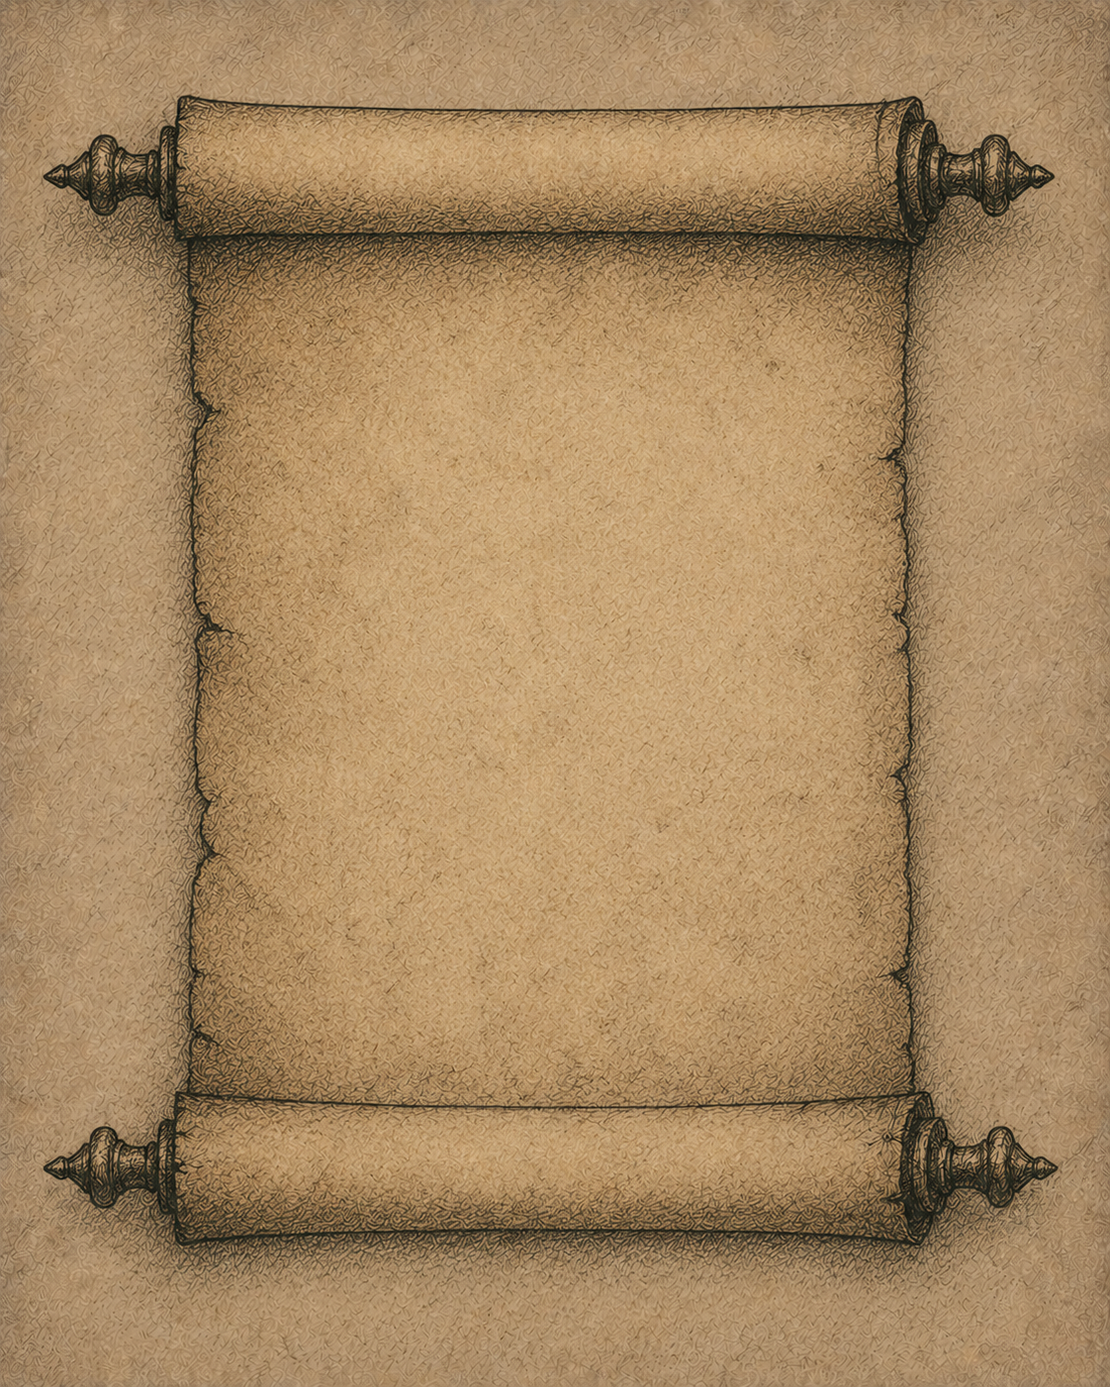
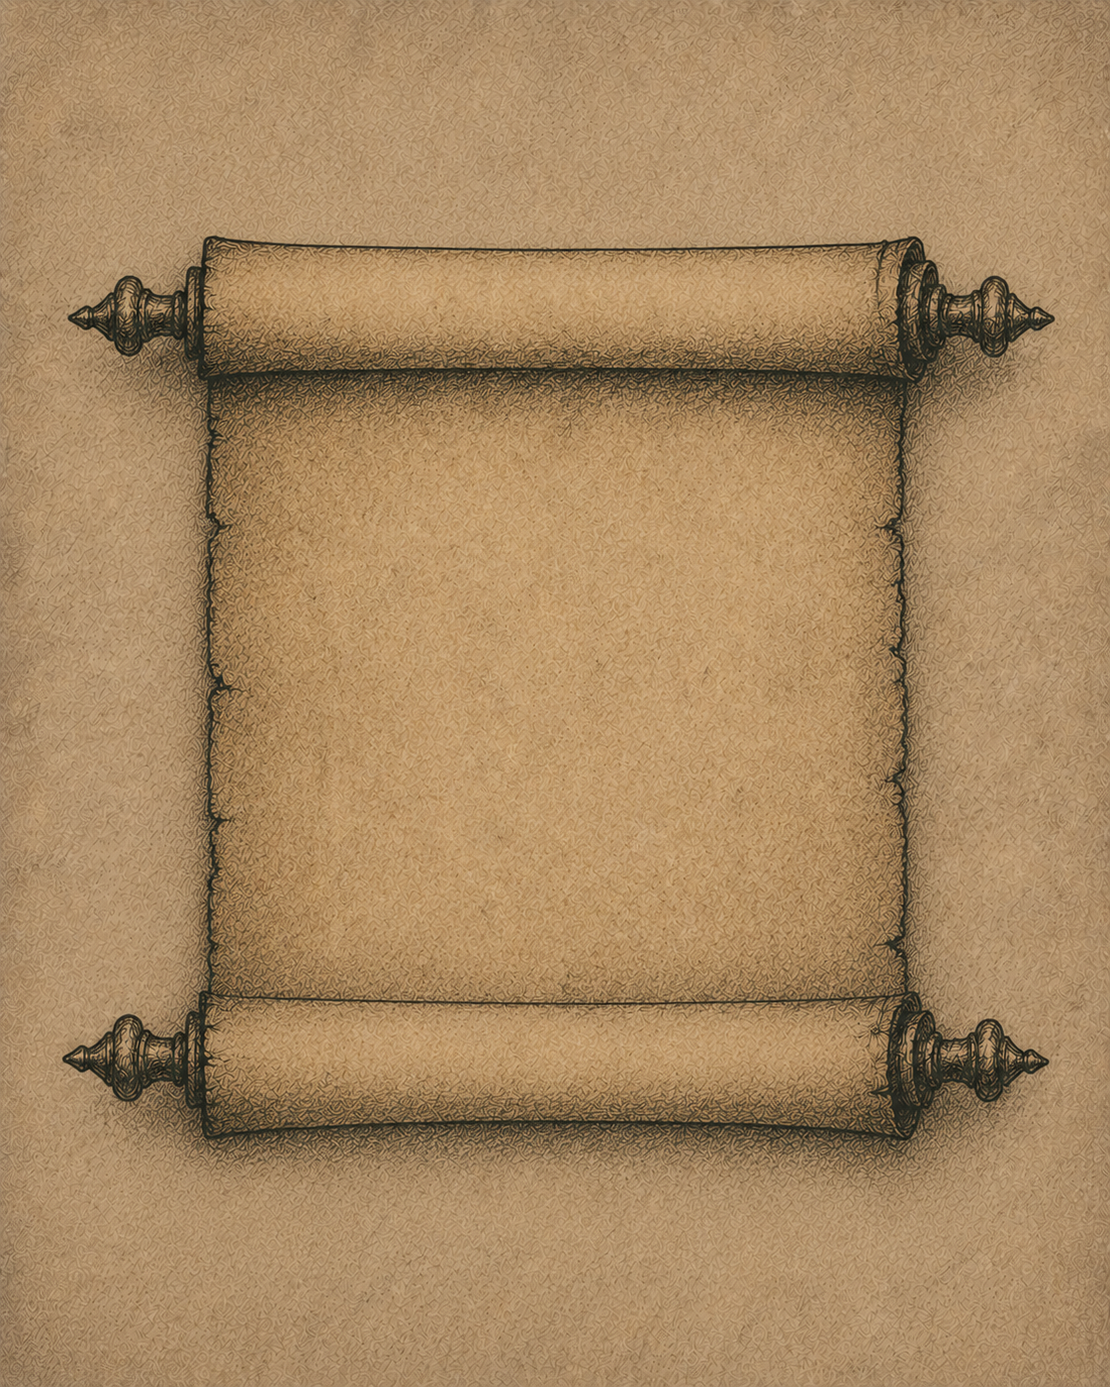
update: mobile svg assignments and announcements

diff --git a/assets/js/learner/assignments.js b/assets/js/learner/assignments.js
@@ -196,7 +196,7 @@ function renderAssignmentCards(groupedData) {
                 <div class="las-sidebar-item" id="las-sidebar-${flatIdx}"
                     onclick="selectDesktopLearnerAssignment(${flatIdx})">
                     <div class="las-sidebar-item-icon">
-                        <svg viewBox="0 0 24 24" width="16" height="16" stroke="#a78bfa" stroke-width="2" fill="none">
+                        <svg viewBox="0 0 24 24" width="16" height="16" stroke="#a78bfa" stroke-width="2" fill="none" stroke-linecap="round" stroke-linejoin="round" style="shape-rendering:geometricPrecision">
                             <path d="M14 2H6a2 2 0 0 0-2 2v16a2 2 0 0 0 2 2h12a2 2 0 0 0 2-2V8z"></path>
                             <polyline points="14 2 14 8 20 8"></polyline>
                         </svg>
@@ -526,7 +526,7 @@ function renderAssignmentCards(groupedData) {
             </div>
             <div class="las-main-panel" id="las-main-panel">
                 <div class="las-panel-empty">
-                    <svg viewBox="0 0 24 24" width="48" height="48" stroke="#a78bfa" stroke-width="1.5" fill="none">
+                    <svg viewBox="0 0 24 24" width="48" height="48" stroke="#a78bfa" stroke-width="1.5" fill="none" stroke-linecap="round" stroke-linejoin="round" style="shape-rendering:geometricPrecision">
                         <path d="M14 2H6a2 2 0 0 0-2 2v16a2 2 0 0 0 2 2h12a2 2 0 0 0 2-2V8z"></path>
                         <polyline points="14 2 14 8 20 8"></polyline>
                         <line x1="16" y1="13" x2="8" y2="13"></line>
@@ -542,7 +542,7 @@ function renderAssignmentCards(groupedData) {
     if (Object.keys(groupedData).length > 0) {
         html += `
         <div class="las-mobile-search-wrap">
-            <svg viewBox="0 0 24 24" width="15" height="15" stroke="currentColor" stroke-width="2" fill="none">
+            <svg viewBox="0 0 24 24" width="15" height="15" stroke="currentColor" stroke-width="2" fill="none" stroke-linecap="round" stroke-linejoin="round" style="shape-rendering:geometricPrecision">
                 <circle cx="11" cy="11" r="8"/><line x1="21" y1="21" x2="16.65" y2="16.65"/>
             </svg>
             <input type="text" class="las-mobile-search" id="lasMobileSearch"
@@ -566,7 +566,7 @@ function renderAssignmentCards(groupedData) {
                 </div>
                 <span class="las-mobile-folder-name">${escapeLearnerAssignmentHtml(teacher)}</span>
                 <span class="las-mobile-folder-count">${tasks.length} assignment${tasks.length !== 1 ? 's' : ''}</span>
-                <svg class="las-mobile-folder-chevron" viewBox="0 0 24 24" width="14" height="14" stroke="currentColor" stroke-width="2.5" fill="none">
+                <svg class="las-mobile-folder-chevron" viewBox="0 0 24 24" width="14" height="14" stroke="currentColor" stroke-width="2" fill="none" stroke-linecap="round" stroke-linejoin="round" style="shape-rendering:geometricPrecision">
                     <polyline points="9 18 15 12 9 6"/>
                 </svg>
             </div>
@@ -584,7 +584,7 @@ function renderAssignmentCards(groupedData) {
                     onkeydown="if(event.key === 'Enter' || event.key === ' ') { event.preventDefault(); openMobileLearnerAssignment(${mobileFlatIdx}); }"
                     style="${task.is_past_due ? 'opacity:0.65;' : ''}">
                     <div class="las-mobile-row-icon">
-                        <svg viewBox="0 0 24 24" width="20" height="20" stroke="#a78bfa" stroke-width="2" fill="none">
+                        <svg viewBox="0 0 24 24" width="20" height="20" stroke="#a78bfa" stroke-width="2" fill="none" stroke-linecap="round" stroke-linejoin="round" style="shape-rendering:geometricPrecision">
                             <path d="M14 2H6a2 2 0 0 0-2 2v16a2 2 0 0 0 2 2h12a2 2 0 0 0 2-2V8z"></path>
                             <polyline points="14 2 14 8 20 8"></polyline>
                         </svg>
@@ -598,7 +598,7 @@ function renderAssignmentCards(groupedData) {
                         </div>
                     </div>
                     <div class="las-mobile-row-chevron">
-                        <svg viewBox="0 0 24 24" width="16" height="16" stroke="currentColor" stroke-width="2" fill="none">
+                        <svg viewBox="0 0 24 24" width="16" height="16" stroke="currentColor" stroke-width="2" fill="none" stroke-linecap="round" stroke-linejoin="round" style="shape-rendering:geometricPrecision">
                             <polyline points="9 18 15 12 9 6"></polyline>
                         </svg>
                     </div>
@@ -792,13 +792,13 @@ window.openMobileLearnerAssignment = function(flatIdx) {
                 ${task.teacher_file ? `
                     <a class="las-mobile-detail-link" href="javascript:void(0)"
                        onclick="viewDocument('${escapeLearnerAssignmentJsString(task.teacher_file)}', 'Teacher Attachment: ${escapeLearnerAssignmentJsString(task.title)}')">
-                        <svg viewBox="0 0 24 24" width="15" height="15" stroke="currentColor" stroke-width="2" fill="none"><path d="M21.44 11.05l-9.19 9.19a6 6 0 0 1-8.49-8.49l9.19-9.19a4 4 0 0 1 5.66 5.66l-9.2 9.19a2 2 0 0 1-2.83-2.83l8.49-8.48"></path></svg>
+                        <svg viewBox="0 0 24 24" width="15" height="15" stroke="currentColor" stroke-width="2" fill="none" stroke-linecap="round" stroke-linejoin="round" style="shape-rendering:geometricPrecision"><path d="M21.44 11.05l-9.19 9.19a6 6 0 0 1-8.49-8.49l9.19-9.19a4 4 0 0 1 5.66 5.66l-9.2 9.19a2 2 0 0 1-2.83-2.83l8.49-8.48"></path></svg>
                         Teacher Attachment
                     </a>` : ''}
                 ${task.submission_file ? `
                     <a class="las-mobile-detail-link" href="javascript:void(0)"
                        onclick="viewDocument('${escapeLearnerAssignmentJsString(task.submission_file)}', 'My Submission: ${escapeLearnerAssignmentJsString(task.title)}')">
-                        <svg viewBox="0 0 24 24" width="15" height="15" stroke="currentColor" stroke-width="2" fill="none"><path d="M1 12s4-8 11-8 11 8 11 8-4 8-11 8-11-8-11-8z"></path><circle cx="12" cy="12" r="3"></circle></svg>
+                        <svg viewBox="0 0 24 24" width="15" height="15" stroke="currentColor" stroke-width="2" fill="none" stroke-linecap="round" stroke-linejoin="round" style="shape-rendering:geometricPrecision"><path d="M1 12s4-8 11-8 11 8 11 8-4 8-11 8-11-8-11-8z"></path><circle cx="12" cy="12" r="3"></circle></svg>
                         View My Work
                     </a>` : ''}
             </div>
@@ -838,10 +838,10 @@ window.selectDesktopLearnerAssignment = function(flatIdx) {
     const isDone = !!task.submission_file;
     const statusColor = task.is_past_due ? '#f85149' : (isDone ? '#a78bfa' : '#888');
     const statusSVG = task.is_past_due
-        ? `<svg viewBox="0 0 24 24" width="20" height="20" stroke="${statusColor}" stroke-width="2" fill="none" style="vertical-align:middle;"><rect x="3" y="11" width="18" height="11" rx="2" ry="2"></rect><path d="M7 11V7a5 5 0 0 1 10 0v4"></path></svg>`
+        ? `<svg viewBox="0 0 24 24" width="20" height="20" stroke="${statusColor}" stroke-width="2" fill="none" stroke-linecap="round" stroke-linejoin="round" style="vertical-align:middle; shape-rendering:geometricPrecision"><rect x="3" y="11" width="18" height="11" rx="2" ry="2"></rect><path d="M7 11V7a5 5 0 0 1 10 0v4"></path></svg>`
         : (isDone
-            ? `<svg viewBox="0 0 24 24" width="20" height="20" stroke="${statusColor}" stroke-width="2.5" fill="none" style="vertical-align:middle;"><path d="M22 11.08V12a10 10 0 1 1-5.93-9.14"></path><polyline points="22 4 12 14.01 9 11.01"></polyline></svg>`
-            : `<svg viewBox="0 0 24 24" width="20" height="20" stroke="${statusColor}" stroke-width="2" fill="none" style="vertical-align:middle;"><path d="M14 2H6a2 2 0 0 0-2 2v16a2 2 0 0 0 2 2h12a2 2 0 0 0 2-2V8z"></path><polyline points="14 2 14 8 20 8"></polyline></svg>`);
+            ? `<svg viewBox="0 0 24 24" width="20" height="20" stroke="${statusColor}" stroke-width="2.5" fill="none" stroke-linecap="round" stroke-linejoin="round" style="vertical-align:middle; shape-rendering:geometricPrecision"><path d="M22 11.08V12a10 10 0 1 1-5.93-9.14"></path><polyline points="22 4 12 14.01 9 11.01"></polyline></svg>`
+            : `<svg viewBox="0 0 24 24" width="20" height="20" stroke="${statusColor}" stroke-width="2" fill="none" stroke-linecap="round" stroke-linejoin="round" style="vertical-align:middle; shape-rendering:geometricPrecision"><path d="M14 2H6a2 2 0 0 0-2 2v16a2 2 0 0 0 2 2h12a2 2 0 0 0 2-2V8z"></path><polyline points="14 2 14 8 20 8"></polyline></svg>`);
 
     const submitAction = task.is_past_due
         ? `<span style="color:#8b949e; font-weight:700; font-size:14px;">Locked</span>`
@@ -860,10 +860,10 @@ window.selectDesktopLearnerAssignment = function(flatIdx) {
                 <div class="las-panel-meta">
                     <span>${task.teacher}</span>
                     <span>&bull;</span>
-                    <svg viewBox="0 0 24 24" width="13" height="13" stroke="currentColor" stroke-width="2" fill="none" style="vertical-align:middle;"><path d="M2 3h20v14H2z"></path><path d="M8 21h8"></path><path d="M12 17v4"></path></svg>
+                    <svg viewBox="0 0 24 24" width="13" height="13" stroke="currentColor" stroke-width="2" fill="none" stroke-linecap="round" stroke-linejoin="round" style="vertical-align:middle; shape-rendering:geometricPrecision"><path d="M2 3h20v14H2z"></path><path d="M8 21h8"></path><path d="M12 17v4"></path></svg>
                     <span>${task.class_name}</span>
                     <span>&bull;</span>
-                    <svg viewBox="0 0 24 24" width="13" height="13" stroke="currentColor" stroke-width="2" fill="none" style="vertical-align:middle;"><circle cx="12" cy="12" r="10"></circle><polyline points="12 6 12 12 16 14"></polyline></svg>
+                    <svg viewBox="0 0 24 24" width="13" height="13" stroke="currentColor" stroke-width="2" fill="none" stroke-linecap="round" stroke-linejoin="round" style="vertical-align:middle; shape-rendering:geometricPrecision"><circle cx="12" cy="12" r="10"></circle><polyline points="12 6 12 12 16 14"></polyline></svg>
                     <span>Due: ${task.due_date}</span>
                 </div>
             </div>
@@ -877,14 +877,14 @@ window.selectDesktopLearnerAssignment = function(flatIdx) {
                     <a href="javascript:void(0)"
                         onclick="viewDocument('${task.teacher_file}', 'Teacher Attachment: ${task.title.replace(/'/g, "\\'")}')"
                         style="color:#a78bfa;font-size:13px;text-decoration:none;display:flex;align-items:center;gap:6px;">
-                        <svg viewBox="0 0 24 24" width="14" height="14" stroke="#a78bfa" stroke-width="2" fill="none"><path d="M21.44 11.05l-9.19 9.19a6 6 0 0 1-8.49-8.49l9.19-9.19a4 4 0 0 1 5.66 5.66l-9.2 9.19a2 2 0 0 1-2.83-2.83l8.49-8.48"></path></svg>
+                        <svg viewBox="0 0 24 24" width="14" height="14" stroke="#a78bfa" stroke-width="2" fill="none" stroke-linecap="round" stroke-linejoin="round" style="shape-rendering:geometricPrecision"><path d="M21.44 11.05l-9.19 9.19a6 6 0 0 1-8.49-8.49l9.19-9.19a4 4 0 0 1 5.66 5.66l-9.2 9.19a2 2 0 0 1-2.83-2.83l8.49-8.48"></path></svg>
                         Teacher Attachment
                     </a>` : ''}
                 ${task.submission_file ? `
                     <a href="javascript:void(0)"
                         onclick="viewDocument('${task.submission_file}', 'My Submission: ${task.title.replace(/'/g, "\\'")}')"
                         style="color:#a78bfa;font-size:13px;text-decoration:none;display:flex;align-items:center;gap:6px;">
-                        <svg viewBox="0 0 24 24" width="14" height="14" stroke="#a78bfa" stroke-width="2" fill="none"><path d="M1 12s4-8 11-8 11 8 11 8-4 8-11 8-11-8-11-8z"></path><circle cx="12" cy="12" r="3"></circle></svg>
+                        <svg viewBox="0 0 24 24" width="14" height="14" stroke="#a78bfa" stroke-width="2" fill="none" stroke-linecap="round" stroke-linejoin="round" style="shape-rendering:geometricPrecision"><path d="M1 12s4-8 11-8 11 8 11 8-4 8-11 8-11-8-11-8z"></path><circle cx="12" cy="12" r="3"></circle></svg>
                         View My Work
                     </a>` : ''}
             </div>

diff --git a/assets/js/learner/announcements.js b/assets/js/learner/announcements.js
@@ -170,7 +170,7 @@ function renderAnnouncements(data) {
     if (hasSchoolWide) {
         sidebarHtml += `
             <div class="lan-sidebar-section-label lan-section-school">
-                <svg viewBox="0 0 24 24" width="10" height="10" stroke="#d29522" stroke-width="2.5" fill="none" style="flex-shrink:0;">
+                <svg viewBox="0 0 24 24" width="12" height="12" stroke="#d29522" stroke-width="2" fill="none" stroke-linecap="round" stroke-linejoin="round" style="flex-shrink:0; shape-rendering:geometricPrecision">
                     <path d="M3 9l9-7 9 7v11a2 2 0 0 1-2 2H5a2 2 0 0 1-2-2z"/>
                     <polyline points="9 22 9 12 15 12 15 22"/>
                 </svg>
@@ -183,7 +183,7 @@ function renderAnnouncements(data) {
                 <div class="lan-sidebar-item lan-sidebar-item--school" id="lan-sidebar-${flatIdx}"
                     onclick="selectDesktopLearnerAnnouncement(${flatIdx})">
                     <div class="lan-sidebar-item-icon">
-                        <svg viewBox="0 0 24 24" width="16" height="16" stroke="#d29522" stroke-width="2" fill="none">
+                        <svg viewBox="0 0 24 24" width="16" height="16" stroke="#d29522" stroke-width="2" fill="none" stroke-linecap="round" stroke-linejoin="round" style="shape-rendering:geometricPrecision">
                             <path d="M3 9l9-7 9 7v11a2 2 0 0 1-2 2H5a2 2 0 0 1-2-2z"/>
                             <polyline points="9 22 9 12 15 12 15 22"/>
                         </svg>
@@ -202,7 +202,7 @@ function renderAnnouncements(data) {
     if (hasTeacher) {
         sidebarHtml += `
             <div class="lan-sidebar-section-label lan-section-teacher" style="margin-top:${hasSchoolWide ? '8px' : '0'}">
-                <svg viewBox="0 0 24 24" width="10" height="10" stroke="#4fd1c5" stroke-width="2.5" fill="none" style="flex-shrink:0;">
+                <svg viewBox="0 0 24 24" width="12" height="12" stroke="#4fd1c5" stroke-width="2" fill="none" stroke-linecap="round" stroke-linejoin="round" style="flex-shrink:0; shape-rendering:geometricPrecision">
                     <rect x="2" y="3" width="20" height="14" rx="2" ry="2"/>
                     <line x1="8" y1="21" x2="16" y2="21"/><line x1="12" y1="17" x2="12" y2="21"/>
                 </svg>
@@ -217,7 +217,7 @@ function renderAnnouncements(data) {
                     <div class="lan-sidebar-item" id="lan-sidebar-${flatIdx}"
                         onclick="selectDesktopLearnerAnnouncement(${flatIdx})">
                         <div class="lan-sidebar-item-icon">
-                            <svg viewBox="0 0 24 24" width="16" height="16" stroke="#4fd1c5" stroke-width="2" fill="none">
+                            <svg viewBox="0 0 24 24" width="16" height="16" stroke="#4fd1c5" stroke-width="2" fill="none" stroke-linecap="round" stroke-linejoin="round" style="shape-rendering:geometricPrecision">
                                 <path d="M11 5L6 9H2v6h4l5 4V5z"/>
                                 <path d="M19.07 4.93a10 10 0 0 1 0 14.14M15.54 8.46a5 5 0 0 1 0 7.07"/>
                             </svg>
@@ -593,7 +593,7 @@ function renderAnnouncements(data) {
             </div>
             <div class="lan-main-panel" id="lan-main-panel">
                 <div class="lan-panel-empty">
-                    <svg viewBox="0 0 24 24" width="48" height="48" stroke="#4fd1c5" stroke-width="1.5" fill="none">
+                    <svg viewBox="0 0 24 24" width="48" height="48" stroke="#4fd1c5" stroke-width="1.5" fill="none" stroke-linecap="round" stroke-linejoin="round" style="shape-rendering:geometricPrecision">
                         <path d="M11 5L6 9H2v6h4l5 4V5z"/>
                         <path d="M19.07 4.93a10 10 0 0 1 0 14.14M15.54 8.46a5 5 0 0 1 0 7.07"/>
                     </svg>
@@ -607,7 +607,7 @@ function renderAnnouncements(data) {
     if (hasSchoolWide || hasTeacher) {
         html += `
         <div class="lan-mobile-search-wrap">
-            <svg viewBox="0 0 24 24" width="15" height="15" stroke="currentColor" stroke-width="2" fill="none">
+            <svg viewBox="0 0 24 24" width="15" height="15" stroke="currentColor" stroke-width="2" fill="none" stroke-linecap="round" stroke-linejoin="round" style="shape-rendering:geometricPrecision">
                 <circle cx="11" cy="11" r="8"/><line x1="21" y1="21" x2="16.65" y2="16.65"/>
             </svg>
             <input type="text" class="lan-mobile-search" id="lanMobileSearch"
@@ -631,7 +631,7 @@ function renderAnnouncements(data) {
                 </div>
                 <span class="lan-mobile-folder-name">School-wide</span>
                 <span class="lan-mobile-folder-count">${schoolWide.length} announcement${schoolWide.length !== 1 ? 's' : ''}</span>
-                <svg class="lan-mobile-folder-chevron" viewBox="0 0 24 24" width="14" height="14" stroke="currentColor" stroke-width="2.5" fill="none">
+                <svg class="lan-mobile-folder-chevron" viewBox="0 0 24 24" width="14" height="14" stroke="currentColor" stroke-width="2" fill="none" stroke-linecap="round" stroke-linejoin="round" style="shape-rendering:geometricPrecision">
                     <polyline points="9 18 15 12 9 6"/>
                 </svg>
             </div>
@@ -645,7 +645,7 @@ function renderAnnouncements(data) {
                     onclick="openMobileLearnerAnnouncement(${mobileFlatIdx})"
                     onkeydown="if(event.key === 'Enter' || event.key === ' ') { event.preventDefault(); openMobileLearnerAnnouncement(${mobileFlatIdx}); }">
                     <div class="lan-mobile-card-icon">
-                        <svg viewBox="0 0 24 24" width="18" height="18" stroke="#f28c38" stroke-width="2" fill="none">
+                        <svg viewBox="0 0 24 24" width="18" height="18" stroke="#f28c38" stroke-width="2" fill="none" stroke-linecap="round" stroke-linejoin="round" style="shape-rendering:geometricPrecision">
                             <path d="M3 9l9-7 9 7v11a2 2 0 0 1-2 2H5a2 2 0 0 1-2-2z"/>
                             <polyline points="9 22 9 12 15 12 15 22"/>
                         </svg>
@@ -657,7 +657,7 @@ function renderAnnouncements(data) {
                         <div class="lan-mobile-card-date">${escapeLearnerAnnouncementHtml(ann.display_date || '')}</div>
                     </div>
                     <div class="lan-mobile-card-chevron">
-                        <svg viewBox="0 0 24 24" width="16" height="16" stroke="currentColor" stroke-width="2" fill="none">
+                        <svg viewBox="0 0 24 24" width="16" height="16" stroke="currentColor" stroke-width="2" fill="none" stroke-linecap="round" stroke-linejoin="round" style="shape-rendering:geometricPrecision">
                             <polyline points="9 18 15 12 9 6"></polyline>
                         </svg>
                     </div>
@@ -681,7 +681,7 @@ function renderAnnouncements(data) {
                     </div>
                     <span class="lan-mobile-folder-name">${escapeLearnerAnnouncementHtml(teacher)}</span>
                     <span class="lan-mobile-folder-count">${items.length} announcement${items.length !== 1 ? 's' : ''}</span>
-                    <svg class="lan-mobile-folder-chevron" viewBox="0 0 24 24" width="14" height="14" stroke="currentColor" stroke-width="2.5" fill="none">
+                    <svg class="lan-mobile-folder-chevron" viewBox="0 0 24 24" width="14" height="14" stroke="currentColor" stroke-width="2" fill="none" stroke-linecap="round" stroke-linejoin="round" style="shape-rendering:geometricPrecision">
                         <polyline points="9 18 15 12 9 6"/>
                     </svg>
                 </div>
@@ -695,7 +695,7 @@ function renderAnnouncements(data) {
                         onclick="openMobileLearnerAnnouncement(${mobileFlatIdx})"
                         onkeydown="if(event.key === 'Enter' || event.key === ' ') { event.preventDefault(); openMobileLearnerAnnouncement(${mobileFlatIdx}); }">
                         <div class="lan-mobile-card-icon">
-                            <svg viewBox="0 0 24 24" width="18" height="18" stroke="#f28c38" stroke-width="2" fill="none">
+                            <svg viewBox="0 0 24 24" width="18" height="18" stroke="#f28c38" stroke-width="2" fill="none" stroke-linecap="round" stroke-linejoin="round" style="shape-rendering:geometricPrecision">
                                 <path d="M11 5L6 9H2v6h4l5 4V5z"/>
                                 <path d="M19.07 4.93a10 10 0 0 1 0 14.14M15.54 8.46a5 5 0 0 1 0 7.07"/>
                             </svg>
@@ -707,7 +707,7 @@ function renderAnnouncements(data) {
                             <div class="lan-mobile-card-date">${escapeLearnerAnnouncementHtml(ann.display_date || '')}</div>
                         </div>
                         <div class="lan-mobile-card-chevron">
-                            <svg viewBox="0 0 24 24" width="16" height="16" stroke="currentColor" stroke-width="2" fill="none">
+                            <svg viewBox="0 0 24 24" width="16" height="16" stroke="currentColor" stroke-width="2" fill="none" stroke-linecap="round" stroke-linejoin="round" style="shape-rendering:geometricPrecision">
                                 <polyline points="9 18 15 12 9 6"></polyline>
                             </svg>
                         </div>
@@ -796,11 +796,11 @@ window.openMobileLearnerAnnouncement = function(flatIdx) {
     const isSchool = ann._type === 'school';
     const sender = ann.teacher || ann.sender || (isSchool ? 'School Admin' : 'Teacher');
     const detailIcon = isSchool
-        ? `<svg viewBox="0 0 24 24" width="11" height="11" stroke="#f28c38" stroke-width="2.5" fill="none">
+        ? `<svg viewBox="0 0 24 24" width="13" height="13" stroke="#f28c38" stroke-width="2" fill="none" stroke-linecap="round" stroke-linejoin="round" style="shape-rendering:geometricPrecision">
                 <path d="M3 9l9-7 9 7v11a2 2 0 0 1-2 2H5a2 2 0 0 1-2-2z"/>
                 <polyline points="9 22 9 12 15 12 15 22"/>
            </svg>`
-        : `<svg viewBox="0 0 24 24" width="11" height="11" stroke="#f28c38" stroke-width="2.5" fill="none">
+        : `<svg viewBox="0 0 24 24" width="13" height="13" stroke="#f28c38" stroke-width="2" fill="none" stroke-linecap="round" stroke-linejoin="round" style="shape-rendering:geometricPrecision">
                 <path d="M11 5L6 9H2v6h4l5 4V5z"/>
                 <path d="M19.07 4.93a10 10 0 0 1 0 14.14M15.54 8.46a5 5 0 0 1 0 7.07"/>
            </svg>`;
@@ -909,7 +909,7 @@ window.selectDesktopLearnerAnnouncement = function(flatIdx) {
                 <div>
                     ${isSchool ? `
                         <div class="lan-school-wide-badge">
-                            <svg viewBox="0 0 24 24" width="10" height="10" stroke="#d29522" stroke-width="2.5" fill="none">
+                            <svg viewBox="0 0 24 24" width="12" height="12" stroke="#d29522" stroke-width="2" fill="none" stroke-linecap="round" stroke-linejoin="round" style="shape-rendering:geometricPrecision">
                                 <path d="M3 9l9-7 9 7v11a2 2 0 0 1-2 2H5a2 2 0 0 1-2-2z"/>
                                 <polyline points="9 22 9 12 15 12 15 22"/>
                             </svg>

diff --git a/learner_dashboard.php b/learner_dashboard.php
@@ -2723,9 +2723,9 @@ document.addEventListener("DOMContentLoaded", function () {
 <script src="assets/js/learner/main.js?v=1.2"></script>
 <script src="assets/js/learner/manual.js?v=3.1"></script>
 <script src="assets/js/learner/quiz.js?v=6.4"></script>
-<script src="assets/js/learner/assignments.js?v=5.3"></script>
+<script src="assets/js/learner/assignments.js?v=5.4"></script>
 <script src="assets/js/learner/resources.js?v=4.6"></script>
-<script src="assets/js/learner/announcements.js?v=4.5"></script>
+<script src="assets/js/learner/announcements.js?v=4.6"></script>
 <script src="assets/js/learner/grades.js?v=3.1"></script>
 <script src="assets/js/learner/evaluations.js?v=2.2"></script>
 <script src="assets/js/learner/discussions.js?v=5.8"></script>
